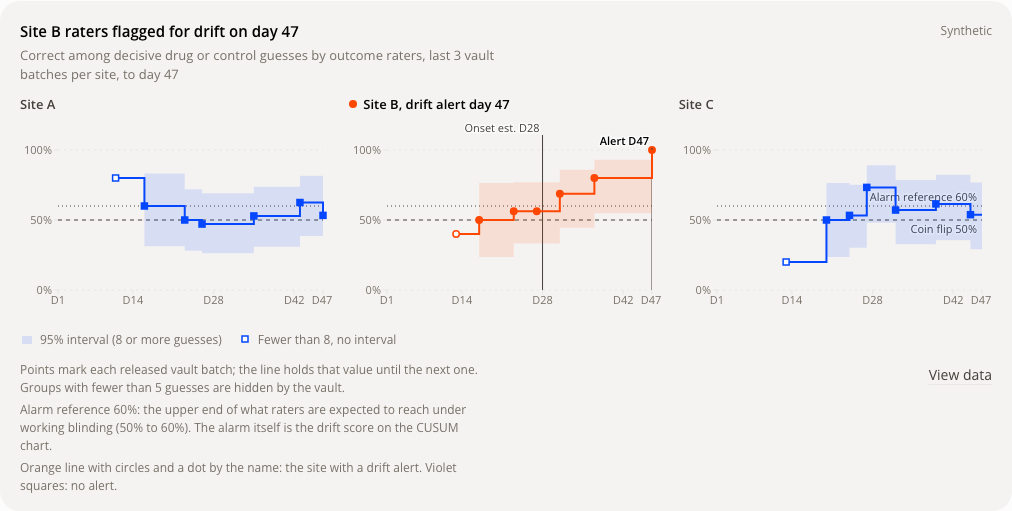
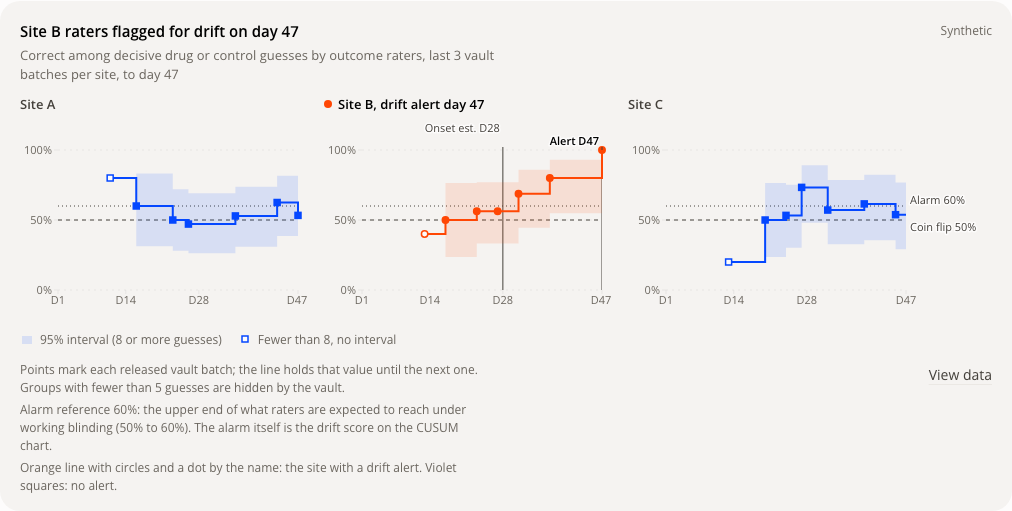
Dosing round 2: reference labels in a right gutter, event stubs below labels, key matches panel colour, reset label flips near the edge

diff --git a/frontend/src/components/module/charts/SiteSmallMultiples.tsx b/frontend/src/components/module/charts/SiteSmallMultiples.tsx
@@ -307,6 +307,10 @@ function TooltipBox({ active, payload, mode }: { active?: boolean; payload?: Arr
   return <div className="dchart-tip" role="status">{sentence({ ...p, day: row.day === p.day ? p.day : p.day }, mode)}{held}</div>;
 }
 
+/** Right gutter for the reference labels. Desktop: only the last panel gets it, and its flex basis grows by the same
+ * amount, so every plot keeps the same width (shared x scale). Stacked: every panel gets it for the same reason. */
+const REF_GUTTER = 76;
+
 interface PanelProps {
   title: string;
   flagged: boolean;
@@ -319,6 +323,22 @@ interface PanelProps {
   compact: boolean;
   labelRows: number;
   labelRefs: boolean;
+  gutter: number;
+}
+
+/** "Coin flip 50%" and "Alarm 60%" in the right gutter beside their rules, where no data is drawn. */
+function RefLabels({ alarm, ...rest }: { alarm: boolean } & Record<string, unknown>) {
+  const yAxisMap = rest.yAxisMap as Record<string, { scale: (v: number) => number }> | undefined;
+  const offset = rest.offset as { left: number; width: number } | undefined;
+  const ys = yAxisMap ? Object.values(yAxisMap)[0]?.scale : undefined;
+  if (!ys || !offset) return null;
+  const x = offset.left + offset.width + 4;
+  return (
+    <g>
+      {alarm && <text x={x} y={ys(0.6) - 2} className="dchart-reflabel">Alarm 60%</text>}
+      <text x={x} y={ys(0.5) + (alarm ? 11 : 4)} className="dchart-reflabel">Coin flip 50%</text>
+    </g>
+  );
 }
 
 /** Event labels above the plot, one row each (panels are narrow), drawn with a halo. */
@@ -333,7 +353,8 @@ function EventLabels({ events, compact, ...rest }: { events: PanelEvent[]; compa
       {sorted.map((e, i) => {
         const x = xs(e.day);
         const y = offset.top - 5 - (sorted.length - 1 - i) * 13;
-        return <line key={`t-${e.kind}-${e.day}`} x1={x} x2={x} y1={y + 3} y2={offset.top} className="dchart-evtick" />;
+        void y; // stubs start below the lowest label row, so no rule crosses a label
+        return <line key={`t-${e.kind}-${e.day}`} x1={x} x2={x} y1={offset.top - 3} y2={offset.top} className="dchart-evtick" />;
       })}
       {sorted.map((e, i) => {
         const x = xs(e.day);
@@ -352,7 +373,7 @@ function EventLabels({ events, compact, ...rest }: { events: PanelEvent[]; compa
   );
 }
 
-function Panel({ title, flagged, points, today, height, mode, alarm, events, compact, labelRows, labelRefs }: PanelProps) {
+function Panel({ title, flagged, points, today, height, mode, alarm, events, compact, labelRows, labelRefs, gutter }: PanelProps) {
   const rows = panelRows(points, today);
   const colour = flagged ? chartTokens.flag : chartTokens.primary;
   const ticks = dayTicks(today, compact ? 14 : 14);
@@ -360,21 +381,22 @@ function Panel({ title, flagged, points, today, height, mode, alarm, events, com
   const topPad = 8 + 13 * labelRows;
   const [tipRef, tipClosed] = useTooltipDismiss<HTMLDivElement>();
   return (
-    <div className={`dchart-panel${flagged ? " dchart-panel--flag" : ""}`}>
+    <div className={`dchart-panel${flagged ? " dchart-panel--flag" : ""}`}
+      style={{ flexBasis: compact ? undefined : gutter }}>
       <p className="dchart-panel__title">{title}</p>
       <div ref={tipRef} className="dchart-panel__plot" style={{ height: height + topPad }}>
         <ResponsiveContainer width="100%" height="100%">
-          <ComposedChart data={rows} margin={{ top: topPad, right: 10, bottom: 0, left: 0 }}>
+          <ComposedChart data={rows} margin={{ top: topPad, right: 10 + gutter, bottom: 0, left: 0 }}>
             <CartesianGrid {...gridProps} />
             <XAxis {...axisProps} dataKey="day" type="number" domain={[1, Math.max(today, 2)]} ticks={ticks}
               tickFormatter={(d: number) => formatDayTick(d)} allowDecimals={false} />
             <YAxis {...axisProps} domain={[0, 1]} ticks={[0, 0.5, 1]} width={38}
               tickFormatter={(v: number) => `${Math.round(v * 100)}%`} />
             <ReferenceLine y={0.5} stroke={chartTokens.reference} strokeDasharray={lineStyles.reference} strokeWidth={1}
-              label={labelRefs ? { value: "Coin flip 50%", position: "insideTopRight", className: "dchart-reflabel" } : undefined} />
+ />
             {alarm && (
               <ReferenceLine y={0.6} stroke={chartTokens.reference} strokeDasharray={lineStyles.threshold} strokeWidth={1}
-                label={labelRefs ? { value: "Alarm reference 60%", position: "insideBottomRight", className: "dchart-reflabel" } : undefined} />
+ />
             )}
             {events.map((e) => (
               <ReferenceLine key={`${e.kind}-${e.day}`} x={e.day} stroke={chartTokens.reference} strokeWidth={1}
@@ -399,6 +421,7 @@ function Panel({ title, flagged, points, today, height, mode, alarm, events, com
                 }}
                 activeDot={tipClosed ? false : { r: 4, stroke: chartTokens.halo, strokeWidth: 2, fill: colour }} />
             )}
+            {labelRefs && <Customized component={<RefLabels alarm={alarm} />} />}
             {events.length > 0 && <Customized component={<EventLabels events={events} compact={compact} />} />}
             {!tooFew && <Tooltip content={<TooltipBox mode={mode} />} cursor={{ stroke: chartTokens.grid }}
               active={tipClosed ? false : undefined} />}
@@ -529,6 +552,8 @@ export function SiteSmallMultiples({ chart, trialId, height }: ModuleChartCompon
   );
 
   const anyData = panels.some((p) => p.pts.length > 0);
+  const allFlagged = panels.length > 0 && panels.every((p) => p.flagged);
+  const keyColour = allFlagged ? chartTokens.flag : chartTokens.primary;
   const empty = error ? { title: "Could not load the blinding record", body: error }
     : !loading && rec && groups.length === 0 ? { title: "Too few to show", body: "No sites with released guesses yet." }
     : null;
@@ -542,12 +567,15 @@ export function SiteSmallMultiples({ chart, trialId, height }: ModuleChartCompon
         {panels.map((p, i) => (
           <Panel key={p.g} title={p.label} flagged={p.flagged} points={p.pts} today={Math.max(today, 1)} height={panelHeight}
             mode={cfg.mode} alarm={cfg.alarm} events={p.events} compact={compact}
-            labelRows={Math.max(0, ...panels.map((x) => x.events.length))} labelRefs={i === panels.length - 1} />
+            labelRows={Math.max(0, ...panels.map((x) => x.events.length))} labelRefs={i === panels.length - 1}
+            gutter={compact || i === panels.length - 1 ? REF_GUTTER : 0} />
         ))}
       </div>
       <div className="dchart-key" aria-hidden="true">
-        <span><svg width="14" height="10"><rect x="2" y="2" width="6" height="6" className="dchart-key__band" /></svg>95% interval (8 or more guesses)</span>
-        <span><svg width="12" height="10"><rect x="2" y="2" width="6" height="6" className="dchart-key__hollow" /></svg>Fewer than 8, no interval</span>
+        <span><svg width="14" height="10"><rect x="2" y="2" width="10" height="8" className="dchart-key__band" fill={keyColour} /></svg>95% interval (8 or more guesses)</span>
+        <span><svg width="12" height="10">{allFlagged
+          ? <circle cx="5" cy="5" r="3.2" className="dchart-key__hollow" stroke={keyColour} />
+          : <rect x="2" y="2" width="6" height="6" className="dchart-key__hollow" stroke={keyColour} />}</svg>Fewer than 8, no interval</span>
       </div>
     </ChartFrame>
   );

diff --git a/frontend/src/components/module/charts/CusumChart.tsx b/frontend/src/components/module/charts/CusumChart.tsx
@@ -315,7 +315,7 @@ export function CusumChart({ chart, trialId, height }: ModuleChartComponentProps
             {styled.filter(({ l }) => l.reset !== null && l.resetFrom !== null).map(({ l, s }) => (
               <ReferenceLine key={`${l.site}-drop`} segment={[{ x: l.reset!, y: l.resetFrom! }, { x: l.reset!, y: 0 }]}
                 stroke={s.stroke} strokeDasharray={lineStyles.derived} strokeWidth={1.5}
-                label={compact ? undefined : { value: "Reset after action", position: "right", className: "dchart-reflabel" }} />
+                label={compact ? undefined : { value: "Reset after action", position: l.reset! > Math.max(today, 2) * 0.7 ? "left" : "right", className: "dchart-reflabel" }} />
             ))}
             {detect && (
               <ReferenceDot x={detect.day} y={detect.score} r={5} fill={chartTokens.flag} stroke={chartTokens.halo} strokeWidth={2} />

diff --git a/frontend/src/components/module/charts/dosing.css b/frontend/src/components/module/charts/dosing.css
@@ -1,18 +1,18 @@
 /* Dosing charts (Builder DOSING): SiteSmallMultiples and CusumChart. Tokens only, so dark mode follows. */
 
 .dchart-grid {
-  display: grid;
-  grid-template-columns: repeat(var(--dchart-cols, 3), minmax(0, 1fr));
+  display: flex;
   gap: 16px;
   width: 100%;
   min-width: 0;
 }
 .dchart-grid--stack {
-  grid-template-columns: minmax(0, 1fr);
+  flex-direction: column;
   gap: 12px;
 }
 
 .dchart-panel {
+  flex: 1 1 0;
   min-width: 0;
 }
 .dchart-panel__title {
@@ -164,14 +164,13 @@
   stroke-width: 1.5;
 }
 .dchart-key__band {
-  fill: var(--color-spark-violet);
   fill-opacity: 0.12;
   stroke: none;
-  width: 10px;
-  height: 8px;
 }
 .dchart-key__hollow {
   fill: var(--color-eggshell);
-  stroke: var(--color-spark-violet);
   stroke-width: 1.5;
+}
+.dchart-grid--stack .dchart-panel {
+  flex: none;
 }
